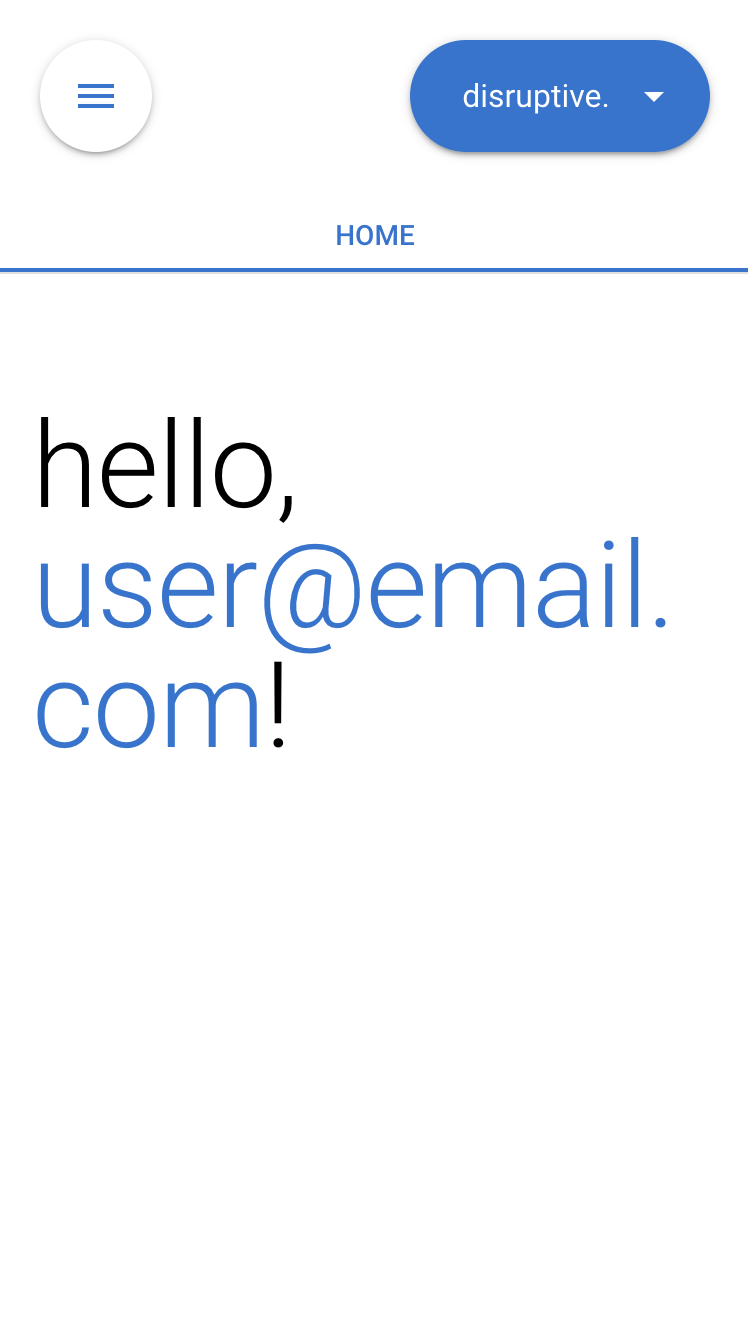
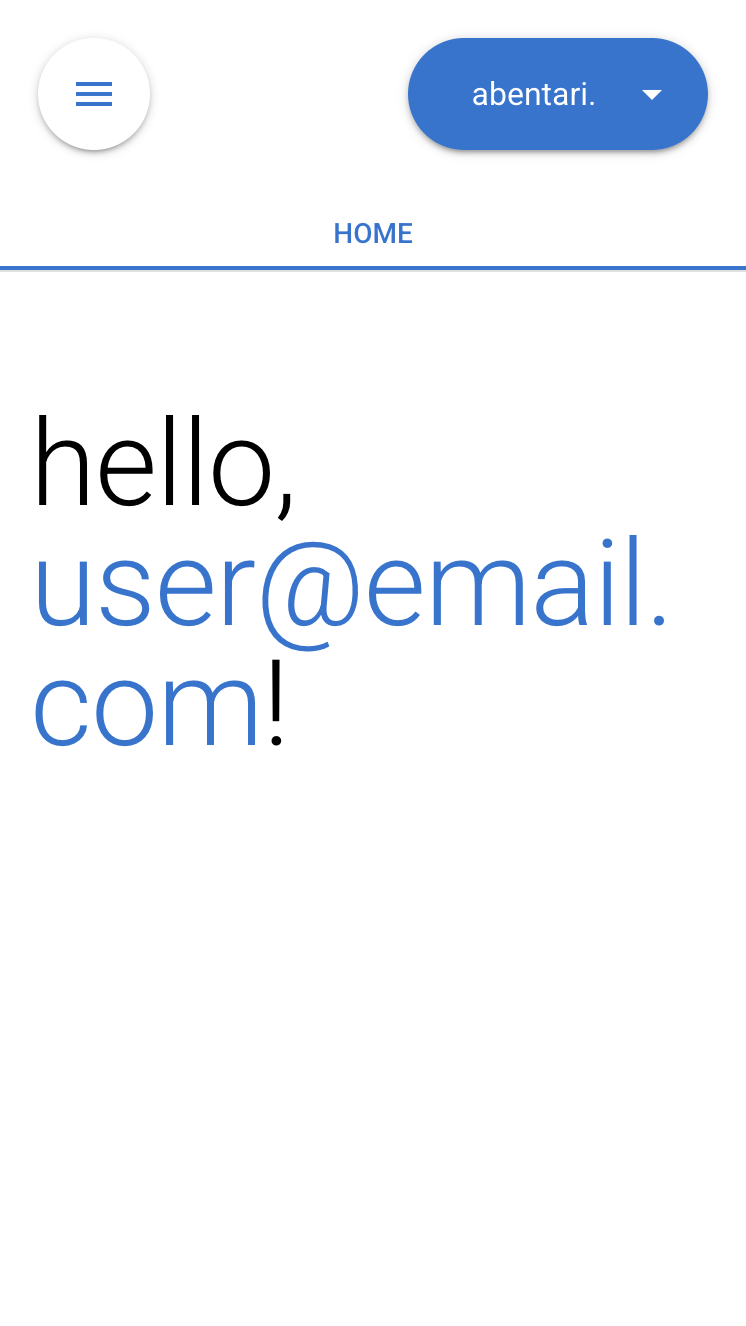
0.1.3-T110

diff --git a/src/pages/main-page.vue b/src/pages/main-page.vue
@@ -140,7 +140,7 @@ export default defineComponent({
 
     const lversion = ref('');
     function checkVersion() {
-      console.log('version: 0.1.2');
+      console.log('version: 0.1.3-T110');
       fetch(window.location.origin + '/version.json?' + Date.now())
         .then((serverPromise) =>
           serverPromise.json().then((response) => {

diff --git a/src/pages/guest-page.vue b/src/pages/guest-page.vue
@@ -87,7 +87,7 @@ export default defineComponent({
 
     const lversion = ref('');
     function checkVersion() {
-      console.log('version: 0.1.2');
+      console.log('version: 0.1.3-T110');
       fetch(window.location.origin + '/version.json?' + Date.now())
         .then((serverPromise) =>
           serverPromise.json().then((response) => {

diff --git a/src/components/nav-item.vue b/src/components/nav-item.vue
@@ -1033,7 +1033,7 @@
           </q-item-label> -->
           <q-item-label style="white-space: normal; word-break: break-word">
             <span>{{ lenvironment + ' - ' }}</span
-            >0.1.2
+            >0.1.3-T110
           </q-item-label>
         </q-item-section>
       </q-item>
